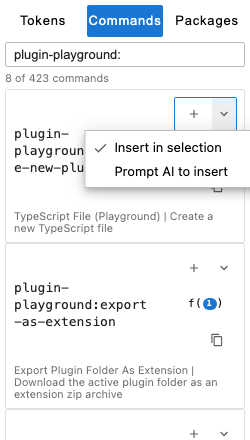
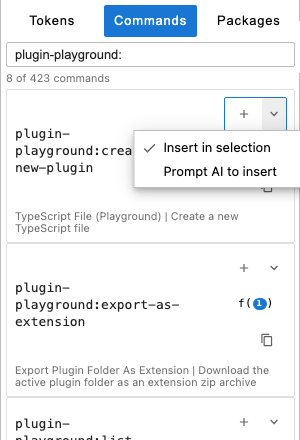
add suggestions

diff --git a/ui-tests/tests/readme-screenshots.spec.ts b/ui-tests/tests/readme-screenshots.spec.ts
@@ -11,6 +11,12 @@ const TOKEN_SECTION_ID = 'jp-plugin-token-sidebar';
 const EXAMPLE_SECTION_ID = 'jp-plugin-example-sidebar';
 const LOAD_ON_SAVE_CHECKBOX_LABEL = 'Auto Load on Save';
 const READABLE_DEMO_FILE = 'readme-screenshots.ts';
+const RIGHT_SIDEBAR_SCREENSHOT_WIDTH = 300;
+const EXTENSION_EXAMPLES_BOTTOM_PADDING = 24;
+const EXTENSION_EXAMPLES_MIN_HEIGHT = 180;
+const EDITOR_TOOLBAR_SCREENSHOT_HEIGHT = 420;
+const SETTINGS_BOTTOM_PADDING = 120;
+const SETTINGS_MIN_HEIGHT = 320;
 const SCREENSHOT_OUTPUT_DIR = path.resolve(
   __dirname,
   '../../docs/images/readme'
@@ -47,6 +53,70 @@ async function saveScreenshot(
 ): Promise<void> {
   await locator.screenshot({
     path: path.join(SCREENSHOT_OUTPUT_DIR, filename)
+  });
+}
+
+async function saveSectionCroppedToAnchor(
+  page: IJupyterLabPageFixture,
+  section: Locator,
+  anchor: Locator,
+  filename: string,
+  options?: {
+    bottomPadding?: number;
+    minHeight?: number;
+  }
+): Promise<void> {
+  const bottomPadding =
+    options?.bottomPadding ?? EXTENSION_EXAMPLES_BOTTOM_PADDING;
+  const minHeight = options?.minHeight ?? EXTENSION_EXAMPLES_MIN_HEIGHT;
+  const sectionBox = await section.boundingBox();
+  const anchorBox = await anchor.boundingBox();
+
+  if (!sectionBox || !anchorBox) {
+    await saveScreenshot(section, filename);
+    return;
+  }
+
+  const sectionBottom = sectionBox.y + sectionBox.height;
+  const targetBottom = Math.min(
+    sectionBottom,
+    anchorBox.y + anchorBox.height + bottomPadding
+  );
+  const clip = {
+    x: Math.max(0, Math.floor(sectionBox.x)),
+    y: Math.max(0, Math.floor(sectionBox.y)),
+    width: Math.max(1, Math.floor(sectionBox.width)),
+    height: Math.max(minHeight, Math.floor(targetBottom - sectionBox.y))
+  };
+
+  await page.screenshot({
+    path: path.join(SCREENSHOT_OUTPUT_DIR, filename),
+    clip
+  });
+}
+
+async function saveTopCroppedScreenshot(
+  page: IJupyterLabPageFixture,
+  section: Locator,
+  filename: string,
+  maxHeight: number
+): Promise<void> {
+  const sectionBox = await section.boundingBox();
+  if (!sectionBox) {
+    await saveScreenshot(section, filename);
+    return;
+  }
+
+  const clip = {
+    x: Math.max(0, Math.floor(sectionBox.x)),
+    y: Math.max(0, Math.floor(sectionBox.y)),
+    width: Math.max(1, Math.floor(sectionBox.width)),
+    height: Math.max(1, Math.min(Math.floor(sectionBox.height), maxHeight))
+  };
+
+  await page.screenshot({
+    path: path.join(SCREENSHOT_OUTPUT_DIR, filename),
+    clip
   });
 }
 
@@ -168,9 +238,17 @@ test('generate README screenshots', async ({ page }) => {
   if (!(await loadOnSaveCheckbox.isChecked())) {
     await loadOnSaveCheckbox.check();
   }
-  await saveScreenshot(editorPanel, 'editor-toolbar-actions.png');
 
   const extensionPointsSection = await openSidebarPanel(page, TOKEN_SECTION_ID);
+  await page.sidebar.setWidth(RIGHT_SIDEBAR_SCREENSHOT_WIDTH, 'right');
+
+  await saveTopCroppedScreenshot(
+    page,
+    editorPanel,
+    'editor-toolbar-actions.png',
+    EDITOR_TOOLBAR_SCREENSHOT_HEIGHT
+  );
+
   await extensionPointsSection.getByRole('tab', { name: 'Commands' }).click();
   const commandFilter = extensionPointsSection.locator(
     'input[aria-label="Filter command ids"]'
@@ -236,12 +314,18 @@ test('generate README screenshots', async ({ page }) => {
     'input[aria-label="Filter extension examples"]'
   );
   await examplesFilter.fill('launcher');
-  await expect(
-    examplesSection.locator('.jp-PluginPlayground-listItem').first()
-  ).toBeVisible({
+  const firstExampleItem = examplesSection
+    .locator('.jp-PluginPlayground-listItem')
+    .first();
+  await expect(firstExampleItem).toBeVisible({
     timeout: 20_000
   });
-  await saveScreenshot(examplesSection, 'extension-examples.png');
+  await saveSectionCroppedToAnchor(
+    page,
+    examplesSection,
+    firstExampleItem,
+    'extension-examples.png'
+  );
 
   await page.evaluate(async () => {
     if (!window.jupyterapp.commands.hasCommand('settingeditor:open')) {
@@ -261,9 +345,18 @@ test('generate README screenshots', async ({ page }) => {
   ).toBeVisible({
     timeout: 20_000
   });
-  await saveScreenshot(
+  const defaultInsertModeSetting = settingsPanel
+    .getByText('Default command insertion mode')
+    .first();
+  await saveSectionCroppedToAnchor(
+    page,
     settingsPanel,
-    'settings-command-insert-default-mode.png'
+    defaultInsertModeSetting,
+    'settings-command-insert-default-mode.png',
+    {
+      bottomPadding: SETTINGS_BOTTOM_PADDING,
+      minHeight: SETTINGS_MIN_HEIGHT
+    }
   );
 
   await page.evaluate(async (filePath: string) => {
